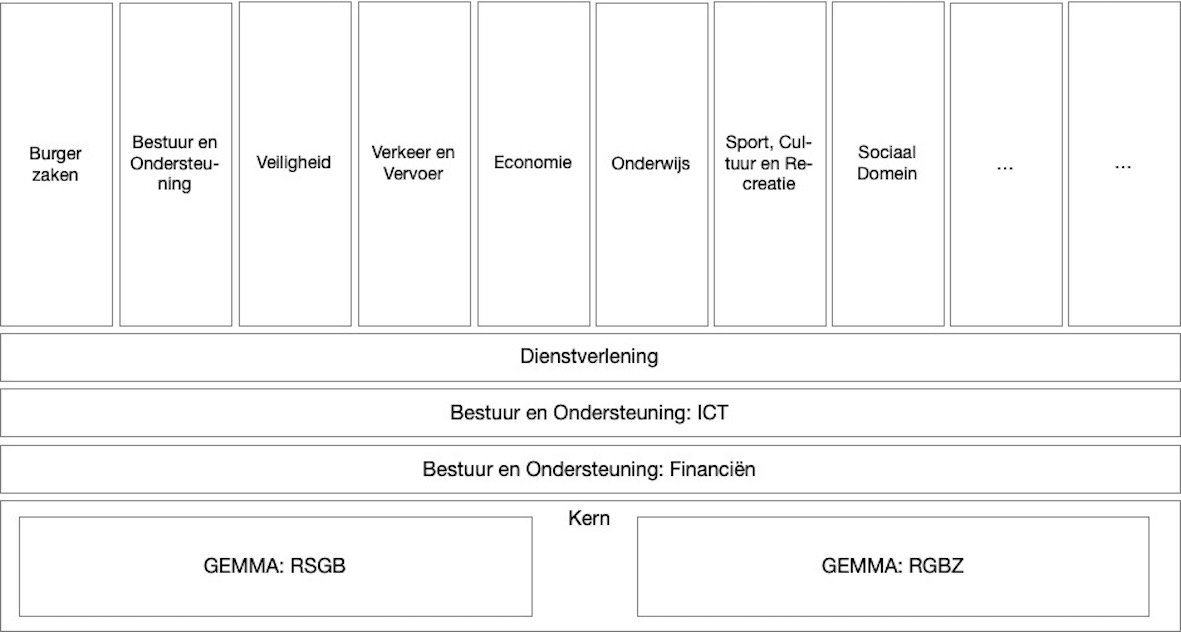
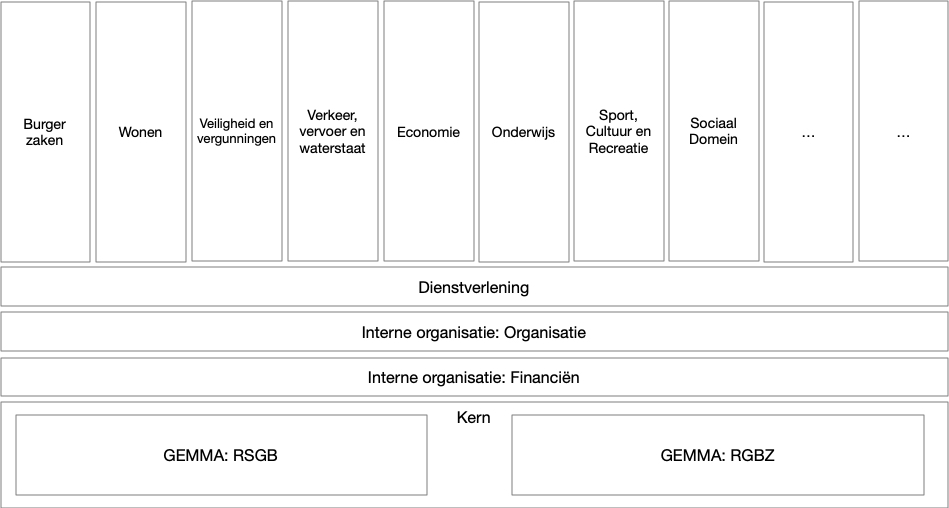
Documentatie voor v2.0.0 goedgezet

diff --git a/docs/index.md b/docs/index.md
@@ -6,6 +6,12 @@ Het GGM omvat alle beleidsterreinen die onder de verantwoordelijkheid van de gem
 
 Bij het GGM is een set _codegeneratietemplates_ ontwikkeld voor het genereren van fysieke datamodellen op basis van (onderdelen van) het GGM. Hiermee genereer je DDL voor diverse RDBMS'en. Wij gebruikten Oracle en in ongeteste vorm zijn de templates beschikbaar voor MySQL, en maakten hier diverse aanvullingen voor. Het gaat hier om templates voor het [Code Template Framework](https://sparxsystems.com/enterprise_architect_user_guide/15.0/model_domains/codetemplates_2.html) van Enterprise Architect.
 
+<p align="center">
+  <a href="https://www.gemeentedelers.nl/"> 
+      <img width="460" src="image/WinnaarGemeenteDelers2022.png" alt="Winnaar Gemeentedelers 2022">
+  </a>
+</p>
+
 ## Downloaden
 
 De bestanden waar deze documentatie bij hoort zijn te vinden in de GitHub-repository [Gemeentelijk Gegevensmodel](https://github.com/gemeente-delft/Gemeentelijk-Gegevensmodel)
@@ -14,12 +20,18 @@ De bestanden waar deze documentatie bij hoort zijn te vinden in de GitHub-reposi
 
 Het Gemeentelijk Gegevensmodel is beschikbaar in [XMI-vorm](https://www.omg.org/spec/XMI/About-XMI/), en is ontwikkeld in, en toegepast met [Enterprise Architect](https://sparxsystems.com).
 
+Let op: gebruik je Enterprise Acrhitect versie 16? In dit geval moet je het bestand 'gemeentelijk gegevensmodel EA16.qea' gebruiken. Gebruik je versie 15, laad dan het bestand 'gemeentelijk gegevensmodel.eapx'.
+
 ### Installatie Gemeentelijk Gegevensmodel
 
-We bieden het GGM in twee vormen aan:
+Hieronder vind je de installatiebeschrijving bij de verschillende ondersteunde tools:
 
-1. Als [EAP-bestand](https://github.com/gemeente-delft/Gemeentelijk-Gegevensmodel/blob/master/v1.0.3/Gemeentelijk_Gegevensmodel.eap), te gebruiken voor de gratis [Enterprise Architect Viewer](https://www.sparxsystems.eu/enterprise-architect/ea-lite-edition/). En natuurlijk de overige versies van Enterprise Architect. Download hiervoor het bestand _Gemeentelijk_Gegevensmodel.xml_ en open het in (de viewer van) Enterprise Architect.
-2. Als [XMI-bestand](https://github.com/gemeente-delft/Gemeentelijk-Gegevensmodel/blob/master/v1.0.3/Gemeentelijk_Gegevensmodel.xml), om geladen te worden in een (nieuw) project in Enterprise Architect, of om geladen te worden in andere UML-tooling. Voor installatie-instructies kijk [hier](installatie.md).
+1. [Enterprise Architect Viewer](https://www.sparxsystems.eu/enterprise-architect/ea-lite-edition/) of [Enterprise Architect versie 16](https://sparxsystems.com/products/ea/16.1/index.html): download hiervoor het bestand [QEA-bestand](https://gemeente-delft.github.io/Gemeentelijk-Gegevensmodel/v2.0.0/gemeentelijk%20gegevensmodel%20EA16.qea) en open het in (de viewer van) Enterprise Architect.
+2. [Enterprise Architect versie 15](https://sparxsystems.com/products/ea/15.2/index.html): download hiervoor het bestand [EAPX-bestand](https://gemeente-delft.github.io/Gemeentelijk-Gegevensmodel/v2.0.0/gemeentelijk%20gegevensmodel.eapx) en open het in (de viewer van) Enterprise Architect.
+3. Als [XMI-bestand in Enterprise Architect 15 en 16](https://gemeente-delft.github.io/Gemeentelijk-Gegevensmodel/v2.0.0/gemeentelijk%20gegevensmodel%20XMI2.1.2.xml), om geladen te worden in een (nieuw) project in Enterprise Architect, of om geladen te worden in andere UML-tooling. Voor installatie-instructies kijk in de [handleiding](https://gemeente-delft.github.io/Gemeentelijk-Gegevensmodel/installatie/).
+4. [Bizzdesign](https://bizzdesign.com): voor installatie-instructies kijk in de [handleiding laden in Bizzdesign](https://gemeente-delft.github.io/Gemeentelijk-Gegevensmodel/installatie/#installatie-gemeentelijk-gegevensmodel-in-bizzdesign) 
+5. [Blue Dolphin](https://www.valueblue.com/bluedolphin): hiervoor gebruik je het [AMEFF-bestand](https://github.com/Gemeente-Delft/Gemeentelijk-Gegevensmodel/blob/master/v2.0.0/gemeentelijk%20gegevensmodel%20GEMMA%20AMEFF.xml) van het GGM voor de Architectuur module van BlueDolphin. Als BlueDolphin gebruiker met Beheerderrol kun je AMEFF-bestanden uploaden. Zie hiervoor de [handleiding: AMEFF bestanden importeren](https://support.valueblue.nl/hc/nl/articles/360013407860-AMEFF-bestanden-importeren-naar-BlueDolphin). Bij vragen contacteer jouw ValueBlue account- of customersuccess-manager.
+ 
 
 ### Installatie Codegeneratietemplates
 
@@ -37,7 +49,10 @@ Het is Getest en gebruikt in de volgende omgevingen:
 
 * [Enterprise Architect versie 14](https://sparxsystems.com/products/ea/14/index.html)
 * [Enterprise Architect versie 15](https://sparxsystems.com/products/ea/15/index.html)
+* [Enterprise Architect versie 16](https://sparxsystems.com/products/ea/trial/request.html)
 * [Enterprise Architect Viewer](https://www.sparxsystems.eu/enterprise-architect/ea-lite-edition/)
+* [Bizzdesign EnterpriseStudio](https://bizzdesign.com)
+* [Blue Dolphin](https://www.valueblue.com/bluedolphin)
 
 ## Opbouw Gemeentelijk Gegevensmodel
 
@@ -53,48 +68,51 @@ Er is ontkoppeling tussen de verschillende (sub)domeinen nagestreefd, doordat in
 
 Het gegevensmodel omvat de volgende op de gebaseerde [IV3-taakvelden](https://www.rijksoverheid.nl/onderwerpen/financien-gemeenten-en-provincies/uitwisseling-financiele-gegevens-met-sisa-en-iv3/informatie-voor-derden-iv3):
 
-* [Burgerzaken](domeinen/burgerzaken/)
-* [Economie](domeinen/economie/)
-* [Griffie](domeinen/griffie/)
-* [Leerplicht en Leerlingenvervoer](domeinen/leerplicht/)
-* [Onderwijs](domeinen/onderwijs/)
-* Ruimte
-    * [Beheer Openbare Ruimte](domeinen/ruimteAlgemeen/)
-    * [Omgevingswet](domeinen/omgevingswet/)
-    * [Afval](domeinen/afval/)
+* Bestuur, politiek en ondersteuning 
+    * [Burgerzaken](domeinen/burgerzaken.md)
+    * [Griffie](domeinen/griffie.md)
+* Veiligheid en vergunningven
+    * [Brede Handhaving](domeinen/vth.md/#brede-handhaving)
+    * [Bouwen en wonen](domeinen/vth.md/#vergunningaanvragen)
+    * [Overige vergunningen](domeinen/vth.md/#vergunningaanvragen)
+* Verkeer, vervoer en waterstaat
+    * [Verkeer](domeinen/verkeer.md)
+    * [Parkeren](domeinen/parkeren.md)
+* [Economie](domeinen/economie.md)
+* Onderwijs
+    * [Leerplicht en Leerlingenvervoer](domeinen/leerplicht.md)
+    * [Onderwijs](domeinen/onderwijs.md)
 * Sport, Cultuur en Recreatie
-    * [Erfgoed, Archeologie](domeinen/archeologie/)
-    * [Erfgoed, Archief](domeinen/archief/)
-    * [Erfgoed, Monumenten](domeinen/monumenten/)
-    * [Museum](domeinen/museum/)
-    * [Sportbeleid](domeinen/sport/)
-* Vergunningverlening, Toezicht en handhaving
-    * [Brede Handhaving](domeinen/vth/#brede-handhaving)
-    * [Bouwen en wonen](domeinen/vth/#vergunningaanvragen)
-    * [Overige vergunningen](domeinen/vth/#vergunningaanvragen)
-* Volksgezondheid en milieu _(nog in ontwikkeling)_
-* Bestuur en ondersteuning
-    * [ICT](domeinen/ict/)
-    * [Gemeentelijk Vastgoed](domeinen/vastgoed/)
-    * [Financiën](domeinen/financien/)
-    * [HR](domeinen/hr/)
-    * [Inkoop](domeinen/inkoop/)
-    * [Subsidies](domeinen/subsidies/)
-    * Facilitair (_nog in ontwikkeling_)
-    * Communicatie (_nog in ontwikkeling_)
-    * Control (_nog in ontwikkeling_)
-* [Dienstverlening](domeinen/dienstverlening/)
+    * Erfgoed
+        * [Archeologie](domeinen/archeologie.md)
+        * [Archief](domeinen/archief.md)
+        * [Monumenten](domeinen/monumenten.md)
+    * [Museum](domeinen/museum.md)
+    * [Sport](domeinen/sport.md)
 * Sociaal domein
-      * [Wmo](domeinen/wmojeugd/)
-    * [Jeugd](domeinen/wmojeugd/)
-    * [Participatie](domeinen/participatie/)
-    * [Schuldhulpverlening](domeinen/schuldhulp/)
-    * [Sociale teams](domeinen/socteam/)
-    * [Gemeentebegraven](domeinen/gemeentebegraven/)
-    * [Dak- en thuislozen](domeinen/participatie/#dak-en-thuislozen)
-* Verkeer en vervoer
-    * [Verkeer](domeinen/verkeer/)
-    * [Parkeren](domeinen/parkeren/)
+    * [Wmo](domeinen/wmojeugd.md)
+    * [Jeugd](domeinen/wmojeugd.md)
+    * [Participatie](domeinen/participatie.md)
+    * [Schuldhulpverlening](domeinen/schuldhulp.md)
+    * [Sociale teams](domeinen/socteam.md)
+    * [Gemeentebegraven](domeinen/gemeentebegraven.md)
+    * [Dak- en thuislozen](domeinen/participatie.md/#dak-en-thuislozen)
+* Volksgezondheid en milieu
+    * [Afval](domeinen/afval.md)
+* Volkshuisvesting, leefomgeving en stedelijke vernieuwing 
+    * [Openbare ruimte](domeinen/ruimteAlgemeen.md)
+    * [Bouwen en wonen](domeinen/bouwenenwonen.md)
+    * [Omgevingswet](domeinen/omgevingswet.md)
+* Interne organisatie
+    * [ICT](domeinen/ict.md)
+    * [Gemeentelijk Vastgoed](domeinen/vastgoed.md)
+    * [Financiën](domeinen/financien.md)
+    * [HR](domeinen/hr.md)
+    * [Inkoop](domeinen/inkoop.md)
+    * [Subsidies](domeinen/subsidies.md)
+    * Facilitair (_nog in ontwikkeling_)
+    * Control (_nog in ontwikkeling_)
+* [Dienstverlening](domeinen/dienstverlening.md)
 
 
 Naast bovengenoemde beleidsterreinen kent het GGM het onderdeel 'Kern', waarin alle gedeelde objecttypen zijn te vinden. Kern is afgeleid van het [Informatiemodel Basis- en Kerngegevens (RSGB)](https://www.gemmaonline.nl/index.php/Informatiemodel_Basis-_en_Kerngegevens_(RSGB)) en [Informatiemodel Zaken (RGBZ)](https://www.gemmaonline.nl/index.php/Informatiemodel_Zaken_(RGBZ)) (beiden onderdeel [GEMMA: Gemeentelijke Modelarchitectuur](https://www.gemmaonline.nl/index.php/Gemeentelijke_Model_Architectuur_(GEMMA))), aangevuld met een aantal generieke objecttypen.  

diff --git a/docs/generatie.md b/docs/generatie.md
@@ -52,7 +52,7 @@ Kies vervolgens onder _Source Code Engineering/Code Editors_ de optie _Default D
 
 Voor het genereren naar DDL neem je de volgende stappen:
 
-1\. Selecteer het onderdee van het model dat je wilt uitgenereren. In het voorbeeld de map`Gemeentelijk Gegevensmodel/Ruimte/Afval/Model`. je kunt ook in een diagram de gewenste objecttypen selecteren.
+1\. Selecteer het onderdeel van het model dat je wilt uitgenereren. In het voorbeeld de map`Gemeentelijk Gegevensmodel/Ruimte/Afval/Model`. je kunt ook in een diagram de gewenste objecttypen selecteren.
 
 ![Selecteer de map in het model][selecteerInModel]
 
@@ -60,7 +60,7 @@ Voor het genereren naar DDL neem je de volgende stappen:
 
 ![Kies Apply Transformation][applyTransformation]
 
-3\. Selecteer aan de rechterkant van het popup _Tables_ in het vlak _Transformations_. Zorg dat aan de linkerkant van de popup alle objecttypen geselecteerd zijn die uitgegenereerd moeten worden.
+3\. Selecteer aan de rechterkant van het popup _Tables_ in het vlak _Transformations_. Zorg dat aan de linkerkant van de pop-up alle objecttypen geselecteerd zijn die uitgegenereerd moeten worden.
 
 ![Kies Tables onder Transformation][kiesTables]
 
@@ -142,7 +142,7 @@ Integer of Int: numeriek veld met alleen gehele getallen.
 Attributen worden op basis van hun Stereotype omgezet:
 
 * Adresaanduiding: veld wordt vervangen door de volgende velden: Naam Gemeente, Straatnaam, Huisnummer, Huisletter, Huisnummertoevoeging, Postcode en BAGID.
-* enum: er wordt een referentie naar de enumeratie opgenomen.
+* enumeration: er wordt een referentie naar de enumeratie opgenomen. Zie hiervoor [Voorbeeld D](#Voorbeeld-D)
 
 ### Relaties
 
@@ -197,20 +197,50 @@ Na transformeren naar tabellen als volgt:
 
 #### Voorbeeld C
 
-Als laatste een voorbeeld met wat voorbeelden die speciale aandacht nodig hebben, omdat het transformatieproces anders fouten oplevert:
+Voorbeelden die speciale aandacht nodig hebben, omdat het transformatieproces anders fouten oplevert:
 
 1. [Relaties met jezelf](https://www.365dagensuccesvol.nl/nl/nieuws/zeg-hoe-goed-is-de-relatie-met-jezelf-eigenlijk/143/) ;) (Varkensoortje)
 2. Meervoudige relaties tussen objecttypes.
 
 ![Voorbeeld C voor uitgeneren naar tabellen][voorbeeldC]
 
-Om deze in het transformatieproces goed te laten werken moet een een Alias opvoeren bij de Source van de betreffende relatie. In het voorbeeld getoond voor het varkensoortje. Deze kun je ook voor meervoudige relaties gebruiken.
+Om deze in het transformatieproces goed te laten werken moet een een Alias opvoeren bij de Source van de betreffende relatie. In het voorbeeld getoond voor het varkensoortje. Deze kun je ook voor meervoudige relaties gebruiken. Vanwege de interne werking van Enterprise Architect is het belangrijk dat de cardinaliteit 0..1 of 1 aan de source-kant van de relatie zit, anders wordt de relatie niet goed uitgegenereerd.
 
 ![Voer een alias in in de Source van het varkensoortje][varkensoortje]
 
 Als je het logisch model hebt getransformeerd naar tabellen zie je dat de Aliasnaam wordt gebruikt voor de foreignkeys en de foreignkey-constraints. Zo kun je zorgen dat er unieke namen worden gebruikt.
 
 ![Voorbeeld C na uitgeneren naar tabellen][voorbeeldCTabellen]
+
+#### Voorbeeld D
+
+Als laatste een voorbeeld met het gebruik van enumeraties:
+
+[Enumeraties](https://nl.wikipedia.org/wiki/Enumeratie_(datatype)) is een opsomming van mogelijke waarden van een bepaald attribuut. Hiermee kun je binnen het GGM de waarden van attributen binnen een bepaalde reeks laten vallen.
+Om deze in het transformatieproces goed te laten werken moet een een Alias opvoeren bij de Source van de betreffende relatie. In het voorbeeld getoond voor het varkensoortje. Deze kun je ook voor meervoudige relaties gebruiken. Hieronder is weergegeven hoe je een enumeratie definieert. 
+
+![Voorbeeld Enumeratie][voorbeeldD]
+
+Te zien is dat deze enumeratie twee mogelijke waarden kent: Optie 1 en Optie 2, en dat het attribuut B verwijst naar deze enumeratie.
+
+![Enumeratie koppelen][voorbeeldDStereotype]
+
+Hierboven is te zien hoe je een attribuut koppelt aan een enumeratie. Belangrijk is het stereotype de waarde "enumeration" te geven.
+
+![Waardenlijsten van enumeraties maken][voorbeeldDAtt]
+
+In bovenstaande figuur is te zien hoe je imn Enterprise Architect de waardelijsten van een enumeratie definieert. In het voorbeeld bestaat de waardelijst uit twee waarden: Optie 1 en Optie 2. Deze zijn als attributen van de Class 'Enumeration A' gedefinieerd. Je vult deze als volgt in:
+
+1. Naam: in Name-veld van attribuut (Altijd waarde invullen om fouten te voorkomen)
+2. Index: in Alias-veld van attribuut (Altijd unieke integerwaarde invullen om fouten te voorkomen)
+3. Omschrijving: in Notes-veld van attribuut  
+4. Geen bij Stereotype altijd waarde 'enum' op
+
+Als je het logisch model hebt getransformeerd naar tabellen zie je dat er van de Class een tabel ie gemaakt, en ook van de enumeratie. Beiden zijn gekoppeld via een foreignkey constraint.
+
+![Enumeraties uitgenereren][voorbeeldDTabellen]
+
+In het uitgegenereerde model is te zien dat in de enumeratie de waardelijsten nog als attributen zijn opgenomen. Pas bij het genereren naar fysieke databaseschema's worden de waardelijsten omgezet naar waardelijsten in de tabel.
 
 [tablesAfval]: image/TablesAfval.png "Maak een plek om de tabellen uit te genereren"
 [selecteerInModel]: image/SelecteerInModel.png "Selecteer de map in het model"
@@ -234,3 +264,7 @@ Als je het logisch model hebt getransformeerd naar tabellen zie je dat de Aliasn
 [voorbeeldATabellen]: image/EAID_9259B8B6_DD2F_4632_9CAE_8A0D9F30DF1F.gif "Voorbeeld A na uitgeneren tabellen"
 [voorbeeldA]: image/EAID_E7F774F3_E0B3_438e_80DC_4B2F2CD3C60B.gif "Voorbeeld A voor uitgeneren naar tabellen"
 [varkensoortje]: image/Varkensoortje.png
+[voorbeeldD]: image/VoorbeeldD.png "Voorbeeld D Enumeraties gebruiken"
+[voorbeeldDAtt]: image/VoorbeeldD_EnumAttributen.png "Voorbeeld D Attributen van Enumeraties"
+[voorbeeldDTabellen]: image/VoorbeeldD_Tables.png "Voorbeeld D genereren van tabellen"
+[voorbeeldDStereotype]: image/VoorbeeldD_Stereotype.png "Voorbeeld D stereotype gebruiken"

diff --git a/docs/installatie.md b/docs/installatie.md
@@ -5,8 +5,8 @@
 Dit is de gemakkelijkste manier om te starten met het Gemeentelijk Gegevensmodel. Het werkt ook met de [viewer van Enterprise Architect](https://www.sparxsystems.eu/enterprise-architect/ea-lite-edition/).
 
 1. Installeer Enterprise Architect of de viewer van Enterprise Architect. 
-2. Download het bestand 'Gemeentelijk_Gegevensmodel.eap'.
-3. Open 'Gemeentelijk_Gegevensmodel.eap' met de Enterprise Architect.
+2. Download het bestand 'Gemeentelijk_Gegevensmodel.qua'.
+3. Open 'Gemeentelijk_Gegevensmodel.qua' met de Enterprise Architect.
 
 ## XMI-bestand importeren in project
 
@@ -23,7 +23,7 @@ Hieronder de te nemen stappen om het in een nieuw of bestaand project binnen Ent
 
 ![Import XMI][importXMI]
 
-5\. Selecteer bij ”Filename” het gedownloade bestand “Gemeentelijk Gegevensmodel.xml”
+5\. Selecteer bij ”Filename” het gedownloade bestand “Gemeentelijk Gegevensmodel XML2.1.2.xml”
 
 ![Select Filename][selectFilename]
 
@@ -37,6 +37,47 @@ Hieronder de te nemen stappen om het in een nieuw of bestaand project binnen Ent
 ![Open Diagram][openDiagram]
 
 8\. Succes!
+
+## Installatie Gemeentelijk Gegevensmodel in Bizzdesign
+
+Het Gemeentelijk Gegevensmodel (GGM) kan als [XMI-vorm](https://www.omg.org/spec/XMI/About-XMI/) worden geïmporteerd in een bestaand project in [Bizzdesign](https://bizzdesign.com). Hiervoor wordt een apart script gebruikt dat Bizzdesign speciaal voor het GGM beschikbaar heeft gesteld.
+
+### GGM importeren in Bizzdesign
+
+Hieronder de te nemen stappen om het in een nieuw 
+project binnen Bizzdesign te importeren.
+
+1\. Download het bestand [Gemeentelijk Gegevensmodel XMI2.1.2](https://github.com/Gemeente-Delft/Gemeentelijk-Gegevensmodel/blob/master/v2.0.0/Gemeentelijk%20Gegevensmodel%20XMI2.1.2.xml)
+
+2\. Start Bizzdesign
+
+3\. Open een nieuw modelpackage met een leeg UML-model, of voeg een leeg UML-model toe aan een bestaand modelpackage
+
+![Open een nieuw modelpackage][Bizzdesign_stap1]
+
+4\. Selecteer het UML-model, en open de query-editor met ctrl-Q. Kopieer de inhoud van het scriptbestand [UML XMI import Bizzdesign.txt](https://github.com/Gemeente-Delft/Gemeentelijk-Gegevensmodel/blob/master/UML%20XMI%20import%20Bizzdesign.txt) in de query-editor. Sla eventueel het script op in het model.
+
+![Selecteer het UML-model][Bizzdesign_stap2]
+
+5\. Voer het script uit via de Execute-knop van de query-editor, en kies het XMI-bestand 'Gemeentelijk Gegevensmodel XMI2.1.2' dat je net hebt gedownload. De inhoud wordt geïmporteerd in het geselecteerde UML-model.
+
+6\. Even wachten….
+
+7\. Succes!
+
+## Installatie in Blue Dolphin
+
+Hieronder staan de stappen voor het laden van het AMEFF-bestand in Blue Dolphin. Bij vragen contacteer jouw ValueBlue account- of customersuccess-manager.
+
+1\. Download het [AMEFF-bestand](https://github.com/Gemeente-Delft/Gemeentelijk-Gegevensmodel/blob/master/v2.0.0/gemeentelijk%20gegevensmodel%20GEMMA%20AMEFF.xml) 
+
+2\. Als BlueDolphin gebruiker met Beheerderrol kun je AMEFF-bestanden uploaden. Zie hiervoor de [handleiding: AMEFF bestanden importeren](https://support.valueblue.nl/hc/nl/articles/360013407860-AMEFF-bestanden-importeren-naar-BlueDolphin)
+
+3\. Succes!
+
+
+[Bizzdesign_stap1]: image/Bizzdesign_stap1.png "Open een nieuw modelpackage"
+[Bizzdesign_stap2]: image/Bizzdesign_stap2.png "Selecteer het UML-model"
 
 [importXMI]: image/ImportPackage.png "Import XMI via tabblad Publish"
 [selectFilename]: image/SelectFilename.png "Select Filename"

diff --git a/docs/tools.md b/docs/tools.md
@@ -1,0 +1,31 @@
+# Tooling voor het manipuleren van het GGM
+
+Dit package bevat tooling voor het manipuleren van de database van het GGM. Hiermee kunnen bijvoorbeeld uitwisselingen met derde partijen worden vormgegeven, wordt de migratie naar MIM bewerkstelligd of kan worden ingezet om JSON-LD of databaseschema's te genereren. De tooling maakt gebruik van het feit dat het GGM is vastgelegd in Enterprise Architect van Sparx en dat deze de repository van het GGM in [Sqllite](https://www.sqlite.org/index.html) wordt bijgehouden. Uit deze SQLlite-database kan de data worden gelezen en gemanipuleerd. Ook kan de SQLlite-database worden aangepast.  
+
+De gebruikte tooling is gebaseerd op [Jupyter Notebooks](https://jupyter.org) en [Python](https://www.python.org).
+
+## Aan de slag
+
+Zorg dat je [Docker](https://www.docker.com) en [Docker-compose](https://github.com/docker/compose) hebt geïnstalleerd. Dit project is voortgebouwd op [Docker Jupyter Minimal Notebook](https://github.com/jupyter/docker-stacks). Om te kunnen werken met de Jupoyter notebooks moet je de hele repository van het Gemeentelijk Gegevensmodel hebben gedownload. De notebooks bevragen direct de [EA 16-versie](https://github.com/Gemeente-Delft/Gemeentelijk-Gegevensmodel/blob/master/v2.0.0/gemeentelijk%20gegevensmodel%20EA16.qea) van het Gemeentelijk Gegevensmodel. 
+
+### Start de container
+
+Ga vanuit de root directory van je download van het Gemeentetelijk Gegevensmodel naar de subdirectory 'tools'. Start de jupyter container met het commando 'docker compose up'. 
+
+```sh
+$ docker-compose up
+```
+
+### Toegang tot de notebooks
+
+Je kunt nu bij de jupyter notebooks via [http://localhost:8888/](http://localhost:8888/). De directories "input" en "output" uit de tools-directory zijn nu ook binnen de container gekloppeld en zichtbaar bij de notebooks.
+
+![Input en Output zijn zichtbaar](image/input_output.png)
+
+### Notebooks gebruiken
+
+Binnen de huidige toolset zijn de volgende notebooks beschikbaar:
+
+1. [Import from Gemma](http://localhost:8888/lab/workspaces/auto-1/tree/Import%20from%20GEMMA.ipynb). Maakt onderdeel uit van de uitwisseling van entiteiten met de GEMMA. Bedoeld om exports uit de GEMMA te importeren;
+2.  [Export to Gemma](http://localhost:8888/lab/workspaces/auto-1/tree/Export%20to%20GEMMA.ipynb). Maakt onderdeel uit van de uitwisseling van entiteiten met de GEMMA. Bedoeld om exports te maken die in GEMMA geïmporteerd kunnen worden;
+3. [Export to MIM](http://localhost:8888/lab/workspaces/auto-1/tree/Export%20to%20MIM.ipynb). **Work in progress!** Bedoeld voor de omzetting van het GGM naar MIM.

diff --git a/docs/totstandkoming.md b/docs/totstandkoming.md
@@ -50,7 +50,7 @@ Voorbeeld uitwerking van deze fase is [hier](./monumenten.md#gegevensdefinities)
 
 ### Uitbreiden Gemeentelijk Gegevensmodel
 
-In de vorige stap is geinventariseerd welke gegevens binnen het beleidsdomein worden gebruikt. In deze stap wordt deze inventarisatie gebruikt om een vertaling te maken naar objecttypes. Naast de geïnventariseerde gegevens bouw je hier zoveel mogelijk voort op (landelijke) gegevensstandaarden. De lijst met landelijke standaarden die in het Gemeentelijk Gegevensmodel zijn toegepast vind je [hier](./index.md#toegepaste-landelijke-standaarden). Als er een landelijke standaard voeg je die aan het model toe, door deze te importeren of deze met de hand over te nemen. Als je voortbouwt op een standaard die al in het model zit, hoeft dit uiteraard niet ;).
+In de vorige stap is geinventariseerd welke gegevens binnen het beleidsdomein worden gebruikt. In deze stap wordt deze inventarisatie gebruikt om een vertaling te maken naar objecttypes. Naast de geïnventariseerde gegevens bouw je hier zoveel mogelijk voort op (landelijke) gegevensstandaarden. De lijst met landelijke standaarden die in het Gemeentelijk Gegevensmodel zijn toegepast vind je [hier](./index.md#toegepaste-landelijke-standaarden). Als er een landelijke standaard ontbreekt voeg je die aan het model toe, door deze te importeren of deze met de hand over te nemen. Als je voortbouwt op een standaard die al in het model zit, hoeft dit uiteraard niet ;).
 
 In deze stap maak je een uitbreiding op het Gemeentelijk Gegevensmodel door per gevonden gegeven een objecttype aan te maken, of her te gebruiken uit het reeds bestaande model. Let hierbij op dat je de [gelaagde opbouw](./index.md#opbouw-gemeentelijk-gegevensmodel) respecteert. Deze objecttypes en de daarbij horende relatie werk je uit in één of meer diagrammen.
 
@@ -143,7 +143,7 @@ Het uitbreiden verloopt in een aantal stappen:
 
 ![Modelleren Stap 2d][modellerenStap3b1]
 
-3\. Selecteer het objecttype waarvoor je zojuist een objecttype hebt aangemaakt en toets Ctrl-L om een 'Classifier' voor dit gegevenssoort aan te maken. Ga naar de zojuist aangemaakte map en selecteer het objecttype dat je zojuist hebt aangemaakt, en druk op 'OK'.
+3\. Selecteer het objecttype waarvoor je zojuist een objecttype hebt aangemaakt en toets Ctrl-L om een 'Classifier' voor dit gegevenssoort aan te maken. Ga naar de zojuist aangemaakte map en selecteer het objecttype dat je zojuist hebt aangemaakt, en druk op 'OK'. 
 
 ![Modelleren Stap 2d][modellerenStap3c]
 

diff --git a/docs/domeinen/subsidies.md b/docs/domeinen/subsidies.md
@@ -4,7 +4,8 @@ In het gegevensmodel voor subsidies staat ‘Subsidie’ centraal. Hiermee wordt
 
 Op basis van een ‘Subsidie’ kunnen er meerdere voorschotten ontvangen/betaald worden, en kunnen er meerdere taken bij een ‘Medewerker’ van de gemeente liggen. Ook kunnen er meerdere rapportagemomenten aan een subsidie zijn gekoppeld.
 
-Een ‘Subsidie’ kan binnen een ‘Subsidieprogramma’ vallen, waarbinnen de doelstelling van dat programma is vastgelegd. Een ‘Subsidieprogramma’ valt binnen een ‘Subsidieproject’ dat is gekoppeld aan een ‘Kostenplaats’ en een ‘Organisatorische Eenheid’ (Afdeling). Subsidies vallen binnen een bepaalde ‘Sector’.
+Een ‘Subsidie’ kan binnen een ‘Subsidieproject’ vallen, waarbinnen de doelstelling van dat programma is vastgelegd. Een ‘Subsidieproject’ valt binnen een ‘Subsidieprogramma’ dat is gekoppeld aan een ‘Kostenplaats’ en een ‘Organisatorische Eenheid’ (Afdeling). Subsidies vallen binnen een bepaalde ‘Sector’. Een subsidiedossier kan onder meerdere begrotingsposten hebben. Een begrotingspost heeft meerdere subsidiedossiers eronder hangen. 
+‘Component’ stelt ons in staat een subsidie in componenten over meerdere kostenplaatsen te verdelen. 
 
 ![Gegevensdefinities Subsidies][subsidies]
 

diff --git a/docs/domeinen/gemeentebegraven.md b/docs/domeinen/gemeentebegraven.md
@@ -1,6 +1,6 @@
 # Gemeentebegraven
 
-Een ‘Gemeentebegrafenis’ is gekoppeld aan een ‘Natuurlijk Persoon’, aangezien de gemeentelijke plicht verder reikt dan alleen personen die zijn ingeschreven. Het komt ook voor dat bijvoorbeeld buitenlanders een gemeentebegrafenis krijgen. In de volgende figuur 14 te zien dat een ‘NATUURLIJK PERSOON’ een ‘Gemeentebegrafenis’ kan hebben.
+Een 'Gemeentebegrafenis' is gekoppeld aan een 'Natuurlijk Persoon', aangezien de gemeentelijke plicht verder reikt dan alleen personen die zijn ingeschreven. Het komt ook voor dat bijvoorbeeld buitenlanders een gemeentebegrafenis krijgen. In de volgende figuur 14 is te zien dat een 'NATUURLIJK PERSOON' een 'Gemeentebegrafenis' kan hebben.
 
 ![Gegevensmodel Gemeentebegraven][begraven]
 

diff --git a/docs/backup.md b/docs/backup.md
@@ -1,0 +1,10 @@
+Om een backup te maken van de DBMS, bijvoorbeeld een kopie voor de testomgeving of een backup voor op de schijf, voer het volgende uit:
+
+Open het tabblad 'Configure', ga naar 'Project Transfer'. 
+
+Opslaan naar bestand: DBMS to File
+Opslaan naar testomgeving: DBMS to DBMS. Selecteer als Source de productieomgeving, als target selecteer je de testomgeving. 
+
+Klik op 'Transfer'
+
+de backup beschrijving is gemaakt op basis EA versie 14

diff --git a/docs/domeinen/inburgering.md b/docs/domeinen/inburgering.md
@@ -1,0 +1,7 @@
+# Inburgering
+
+In onderstaande figuur zijn de zijn de gegevens te zien die worden bijgehouden over inburgering. **Let op: het betreft hier een deelmodel in concept.** 
+
+![Model Inburgering][inburgering]
+
+[inburgering]: image/EAID_96927C60_9F7B_4e67_806A_02EE0191983D.jpg "Inburgering"

diff --git a/docs/domeinen/bouwenenwonen.md b/docs/domeinen/bouwenenwonen.md
@@ -1,0 +1,7 @@
+# Bouwen en wonen
+
+In onderstaande figuur zijn de zijn de gegevens te zien die worden bijgehouden over Bouwen en wonen.
+
+![Model Bouwen en wonen][bouwenenwonen]
+
+[bouwenenwonen]: image/EAID_5B2022A2_1DAB_476d_BBCD_CD27F56F169F.jpg "Bouwen en wonen"

diff --git a/docs/documentatie.md b/docs/documentatie.md
@@ -20,3 +20,4 @@ De documentatie ingechekt en gepubliceerd op GitHub, bij aanpassingen van de doc
 ```
 mkdocs gh-deploy
 ```
+
